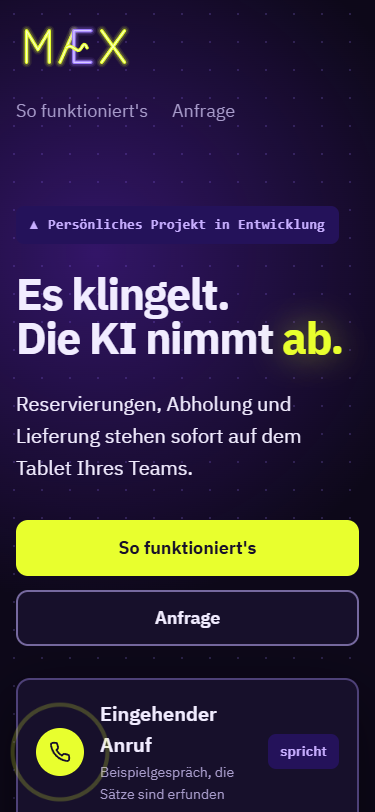
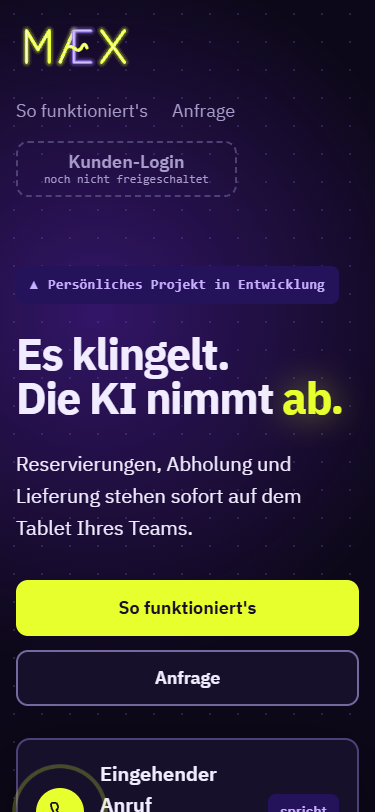
feat(site): greyed sign-in with its reason in sight, only needed static files, Apache host docs (#892)

diff --git a/api/gui/static/site.css b/api/gui/static/site.css
@@ -69,7 +69,9 @@ a:hover{color:var(--text)}
 .btn-ghost{background:var(--surface);border-color:var(--line-strong);color:var(--text)}
 .btn-ghost:hover{background:var(--surface-2)}
 .btn-try{background:var(--warn-bg);border-color:var(--warn-line);color:var(--text)}
-.btn-off{background:transparent;border:2px dashed var(--line);color:var(--muted);cursor:default}
+/* A disabled entry says why, in sight and not only to a screen reader. */
+.btn-off{flex-direction:column;line-height:1.2;background:transparent;border:2px dashed var(--line);color:var(--muted);cursor:not-allowed}
+.btn-off-why{font-family:var(--font-mono);font-size:.75rem;font-weight:400}
 .btn-off:hover{transform:none;color:var(--muted)}
 .btn-big{min-block-size:64px;padding-inline:36px;font-size:1.25rem}
 .btn-wide{inline-size:100%;margin-top:28px}

diff --git a/api/site/templates/base.html b/api/site/templates/base.html
@@ -55,7 +55,7 @@
     {% else %}
     {# No sign-in target, or the private preview (Maxi, 20.11.2026: the entry
        stays visible, greyed): shown as what it is, no link, no control. #}
-    <span class="btn btn-off" aria-disabled="true">Kunden-Login<span class="sr"> (noch nicht freigeschaltet)</span></span>
+    <span class="btn btn-off" aria-disabled="true">Kunden-Login<span class="btn-off-why"> noch nicht freigeschaltet</span></span>
     {% endif %}
   </nav>
 </header>

diff --git a/api/tests/test_site_export.py b/api/tests/test_site_export.py
@@ -21,6 +21,8 @@ FILES = (
     "anfrage/index.html",
     "impressum/index.html",
     "datenschutz/index.html",
+    "404.html",
+    ".htaccess",
     "robots.txt",
     "static/site.css",
     "static/site.js",
@@ -79,12 +81,13 @@ def test_every_exported_page_of_the_preview_says_noindex_nofollow(tmp_path):
     out = tmp_path / "site"
     site_export.export(out, settings_of())
 
-    assert len(pages(out)) == 4
+    assert len(pages(out)) == 5  # four pages and the 404 page
     for page in pages(out):
         html = page.read_text(encoding="utf-8")
         assert html.count('name="robots"') == 1, page
         assert '<meta name="robots" content="noindex, nofollow">' in html, page
-        assert "Kunden-Login" not in html, page
+        assert 'class="btn btn-off" aria-disabled="true"' in html, page
+        assert ">Kunden-Login</a>" not in html, page
         assert "Content-Security-Policy" in html, page
 
 
@@ -201,7 +204,8 @@ def test_a_built_tablet_demo_joins_the_export_with_noindex(tmp_path, monkeypatch
     (demo / "index.html").write_text(
         '<!DOCTYPE html><html><head><meta charset="utf-8"></head>'
         '<body><a href="/tablet-demo/kennzahlen/">K</a>'
-        '<link rel="stylesheet" href="/static/tablet-demo.css"></body></html>',
+        '<link rel="stylesheet" href="/static/tablet-demo.css">'
+        '<script src="/static/app.js"></script></body></html>',
         encoding="utf-8",
     )
     (demo / "kennzahlen" / "index.html").write_text(
@@ -220,3 +224,88 @@ def test_a_built_tablet_demo_joins_the_export_with_noindex(tmp_path, monkeypatch
     assert site_export.broken_links(out) == []
     # The source folder of the demo is left as it was.
     assert "robots" not in (demo / "index.html").read_text(encoding="utf-8")
+    # The demo's own files of /static/ come along, the board's script too.
+    assert (out / "static" / "tablet-demo.css").is_file()
+    assert (out / "static" / "app.js").is_file()
+
+
+def test_the_export_carries_only_the_static_files_its_pages_need(tmp_path):
+    out = tmp_path / "site"
+    site_export.export(out, settings_of())
+
+    shipped = {
+        p.relative_to(out / "static").as_posix()
+        for p in (out / "static").rglob("*")
+        if p.is_file()
+    }
+    fonts = {
+        f"fonts/ibm-plex-sans-latin-{w}-normal.woff2" for w in (400, 500, 600, 700)
+    }
+    assert shipped == {
+        "site.css",
+        "site.js",
+        "site-logic.js",
+        "anfrage.js",
+        "icon-192.png",
+        "fonts/IBM-Plex-Sans-OFL.txt",
+        *fonts,
+    }
+    # The tablet application's files stay out while no demo is built.
+    for name in (
+        "app.js",
+        "app.css",
+        "htmx.min.js",
+        "passkey.js",
+        "dev-console.js",
+        "manifest.json",
+    ):
+        assert name not in shipped
+
+
+def test_the_404_page_is_a_page_of_the_site(tmp_path):
+    out = tmp_path / "site"
+    site_export.export(out, settings_of())
+
+    html = (out / "404.html").read_text(encoding="utf-8")
+    assert "Diese Seite gibt es nicht." in html
+    assert '<meta name="robots" content="noindex, nofollow">' in html
+    assert 'href="/"' in html
+
+
+@pytest.mark.parametrize("preview_on", [True, False])
+def test_the_htaccess_sends_the_headers_and_names_the_404_page(tmp_path, preview_on):
+    out = tmp_path / "site"
+    site_export.export(out, settings_of(site_preview=preview_on))
+
+    text = (out / ".htaccess").read_text(encoding="utf-8")
+    assert "ErrorDocument 404 /404.html" in text
+    assert f'Header always set Content-Security-Policy "{site_app.CSP}"' in text
+    assert "frame-ancestors 'none'" in text and "unsafe-inline" not in text
+    assert 'Header always set X-Content-Type-Options "nosniff"' in text
+    assert 'Header always set Referrer-Policy "no-referrer"' in text
+    assert ('X-Robots-Tag "noindex, nofollow"' in text) is preview_on
+    # Directives a shared host may forbid in .htaccess (a 500 for every page).
+    directives = [line.split()[0] for line in text.splitlines() if line.strip()]
+    assert "Options" not in directives and "DirectoryIndex" not in directives
+    assert "<IfModule mod_headers.c>" in text
+
+
+def test_the_zip_holds_the_folder_without_the_marker(tmp_path, monkeypatch):
+    import zipfile
+
+    out = tmp_path / "site"
+    monkeypatch.setattr(site_export, "SiteSettings", lambda: settings_of())
+
+    assert site_export.main(["--out", str(out), "--zip"]) == 0
+
+    with zipfile.ZipFile(tmp_path / "site.zip") as packed:
+        names = set(packed.namelist())
+    assert {
+        "index.html",
+        "anfrage/index.html",
+        ".htaccess",
+        "404.html",
+        "robots.txt",
+    } <= names
+    assert site_export.MARK not in names
+    assert "static/site.css" in names

diff --git a/scripts/site_export.py b/scripts/site_export.py
@@ -1,12 +1,14 @@
 """Write the public site as plain files for any static host (#892, docs/13 §9).
 
-    python -m scripts.site_export [--out site-export]
+    python -m scripts.site_export [--out site-export] [--zip]
 
 Asks the site app (`api/site/app.py`) for every page with the configuration of
 this environment (`SITE_*`, `.env`) and writes the answers into one folder:
 `index.html`, `anfrage/index.html`, `impressum/index.html`,
-`datenschutz/index.html`, `robots.txt`, the files of `/static/`, and the tablet
-demo under `tablet-demo/` when `scripts/demo/tablet_demo_build.py` has built it.
+`datenschutz/index.html`, `404.html`, `robots.txt`, an Apache `.htaccess` with
+the headers the app sends, the files of `/static/` the pages need, and the
+tablet demo under `tablet-demo/` when `scripts/demo/tablet_demo_build.py` has
+built it. `--zip` also writes `<folder>.zip` for the upload.
 Links stay root-absolute (`/static/site.css`, `/anfrage/`), so the folder is
 served from the root of a host name. Every link of the written pages is checked
 against the folder; a broken one stops the export.
@@ -47,6 +49,13 @@ LEGAL = ("impressum", "datenschutz")
 PAGE_LINK = re.compile(r'((?:href|action)=")/(anfrage|impressum|datenschutz)(?=[?#"])')
 LINK = re.compile(r'(?:href|src|action)="(/[^"]*)"')
 CSS_URL = re.compile(r"url\(\s*['\"]?(/[^)'\"]+)")
+# A file of /static/ named by a page, a stylesheet, a script or a manifest, and
+# the relative imports of a compiled script (`from "./site-logic.js"`).
+STATIC_REF = re.compile(r"/static/([\w.-]+(?:/[\w.-]+)*)")
+JS_IMPORT = re.compile(r"""(?:\bfrom|\bimport)\s*\(?\s*["'](\.{1,2}/[^"']+)["']""")
+SCANNED = (".html", ".css", ".js", ".json")
+# The fonts are under the SIL OFL, which travels with every copy of them.
+FONT_LICENCE = "fonts/IBM-Plex-Sans-OFL.txt"
 ROBOTS_META = re.compile(r'<meta\s+name="robots"', re.I)
 NOINDEX = '<meta name="robots" content="noindex, nofollow">'
 
@@ -107,6 +116,34 @@ def broken_links(out: Path) -> list[str]:
     return broken
 
 
+def copy_static(out: Path) -> None:
+    """Copies the files of /static/ the written pages need, and what those files
+    need in turn, nothing else: `api/gui/static/` also holds the tablet
+    application's files, which only the tablet demo loads."""
+    todo = [f for f in out.rglob("*") if f.suffix in (".html", ".json")]
+    copied: set[str] = set()
+    while todo:
+        file = todo.pop()
+        text = file.read_text(encoding="utf-8")
+        names = STATIC_REF.findall(text)
+        if file.suffix == ".js":
+            here = file.parent.relative_to(out / "static")
+            names += [(here / ref).as_posix() for ref in JS_IMPORT.findall(text)]
+        if any(name.startswith("fonts/") for name in names):
+            names.append(FONT_LICENCE)
+        for name in names:
+            name = Path(name).as_posix().removeprefix("./")
+            source = site_app.STATIC / name
+            if name in copied or ".." in name or not source.is_file():
+                continue
+            copied.add(name)
+            target_file = out / "static" / name
+            target_file.parent.mkdir(parents=True, exist_ok=True)
+            shutil.copyfile(source, target_file)
+            if target_file.suffix in SCANNED:
+                todo.append(target_file)
+
+
 def mark_noindex(folder: Path) -> None:
     """Gives every page of a copied folder the preview's robots tag where it has
     none, so no page of the export can be indexed."""
@@ -163,11 +200,11 @@ def export(out: Path, settings: SiteSettings) -> list[str]:
         PAGE_LINK.sub(r"\1/\2/", missing_page.text), encoding="utf-8"
     )
     (out / ".htaccess").write_text(htaccess(settings), encoding="utf-8")
-    shutil.copytree(site_app.STATIC, out / "static")
     if site_app.TABLET_DEMO.is_dir():
         shutil.copytree(site_app.TABLET_DEMO, out / "tablet-demo")
         if settings.site_preview:
             mark_noindex(out / "tablet-demo")
+    copy_static(out)
     (out / MARK).write_text("written by scripts/site_export.py\n", encoding="utf-8")
     broken = broken_links(out)
     if broken:

diff --git a/api/tests/test_site.py b/api/tests/test_site.py
@@ -363,17 +363,24 @@ def test_the_preview_is_on_by_default():
 
 
 @pytest.mark.parametrize("path", PAGES)
-def test_in_the_preview_no_page_offers_a_sign_in_and_none_may_be_indexed(path):
-    # A sign-in target configured or not: the preview shows none, not even a label.
+def test_in_the_preview_the_sign_in_is_a_greyed_label_and_no_page_may_be_indexed(path):
+    # A sign-in target configured or not: the preview shows the entry greyed,
+    # with its reason in sight, and links nowhere (Maxi, 20.11.2026).
     response = preview(site_login_url="https://login.example.com/gui/anmelden").get(
         path
     )
 
     assert '<meta name="robots" content="noindex, nofollow">' in response.text
     assert response.headers["x-robots-tag"] == "noindex, nofollow"
-    assert "Kunden-Login" not in response.text
+    label = re.search(
+        r'<span class="btn btn-off" aria-disabled="true">(.*?)</span></span>',
+        response.text,
+    )
+    assert label
+    assert "Kunden-Login" in label.group(1)
+    assert '<span class="btn-off-why"> noch nicht freigeschaltet' in label.group(1)
     assert "login.example.com" not in response.text
-    assert "btn-off" not in response.text
+    assert ">Kunden-Login</a>" not in response.text
 
 
 def test_in_the_preview_the_form_cannot_be_sent_whatever_is_configured():
@@ -392,7 +399,7 @@ def test_in_the_preview_the_form_cannot_be_sent_whatever_is_configured():
     assert "Formular ansehen" in landing
     assert "Zur Anfrage" not in landing
     assert "Die Anfrage verpflichtet zu nichts" not in landing
-    assert "Kunden-Login" not in landing
+    assert "Sie sind schon Kunde?" not in landing
 
 
 def test_the_preview_badge_names_a_personal_project_and_off_the_test_phase():
@@ -451,3 +458,11 @@ def test_the_legal_pages_take_their_text_from_the_folder_outside(tmp_path):
     assert "nicht veröffentlichungsfähig" not in notice
     # The missing file leaves its page the placeholder.
     assert "nicht veröffentlichungsfähig" in privacy
+
+
+def test_an_unknown_address_gets_the_404_page_of_the_site():
+    response = preview().get("/gibt-es-nicht")
+
+    assert response.status_code == 404
+    assert "Diese Seite gibt es nicht." in response.text
+    assert response.headers["content-security-policy"] == site_app.CSP

diff --git a/api/site/config.py b/api/site/config.py
@@ -36,10 +36,10 @@ class SiteSettings(BaseSettings):
     # address and the privacy text exist (#892). Empty: the form is shown, but
     # cannot be sent.
     site_inquiry_action: str = ""
-    # Private preview (#892), on until Maxi turns it off: no customer sign-in at
-    # all, a form that cannot be sent whatever SITE_INQUIRY_ACTION says,
-    # `noindex, nofollow` on every page, and the badge names a personal project
-    # in development.
+    # Private preview (#892), on until Maxi turns it off: the customer sign-in
+    # greyed whatever SITE_LOGIN_URL says, a form that cannot be sent whatever
+    # SITE_INQUIRY_ACTION says, `noindex, nofollow` on every page, and the badge
+    # names a personal project in development.
     site_preview: bool = True
     # A folder outside the repository with `impressum.html` and
     # `datenschutz.html`: the legal notice and the privacy text as HTML

diff --git a/docs/13_DEPLOYMENT.md b/docs/13_DEPLOYMENT.md
@@ -522,8 +522,10 @@ The landing page and the inquiry page (`api/site/`, docs/06 §10) are a third sm
 - **Hosts.** The apex `<domain>` and `www.<domain>` lead to this app, `ops.<domain>` to the dashboard and `<customer>.<domain>` to a customer's stack (docs/23 §3). Requirement for #840: the apex answers `/`, `/anfrage`, `/impressum`, `/datenschutz` and `/static/*` and nothing else of the application; `www` redirects to the apex with 301; HTTPS only, with the same `Strict-Transport-Security` as the other sites; a site block like `deploy/caddy/ops.caddy` with `request_body` limited to 256 KB and no proxy secret (the pages are public). The app sets its own CSP, `nosniff`, `no-referrer` and `no-cache` on every answer, so Caddy adds only HSTS. The app serves `/static` from `api/gui/static/`, which also holds files of the operations view; they are public files and none holds data.
 - **Environment** (all optional, `.env.example`): `SITE_LOGIN_URL` where "Kunden-Login" leads (`https://<customer>.<domain>/gui/anmelden`, or a path; `http://` only in dev and test), `SITE_CONTACT_EMAIL` for a mail link, `SITE_INQUIRY_ACTION` the path the form posts to, set only once that route exists. A value that is not what it says stops the start. Unset values switch their part of the page off.
 - **Tablet demo** (docs/06 §11): before publishing, `python -m scripts.demo.tablet_demo_build` renders `api/site/tablet-demo/` from invented data; it needs `DATABASE_URL` naming a PostgreSQL server where it may create and drop a scratch database (the local stack's is enough), and the site serves the folder at `/tablet-demo` when it exists at the site's start. The apex then also answers `/tablet-demo/*`. The output is not committed, so the image or the host gets it from that build.
-- **Private preview** (`SITE_PREVIEW`, on until Maxi sets it to `false`): no customer sign-in at all, the form shown with every field and the button disabled and one sentence that nothing can be sent (whatever `SITE_INQUIRY_ACTION` says), `<meta name="robots" content="noindex, nofollow">` on every page and `X-Robots-Tag` from the app, the badge "Persönliches Projekt in Entwicklung". `robots.txt` allows crawling on purpose: a crawler that robots.txt shuts out never reads a page, so it never sees the noindex and may still list the address from links elsewhere. No sitemap.
-- **Static export.** `python -m scripts.site_export [--out <folder>]` (from the API's image, or any Python with the API's dependencies) asks the app for every page with this environment's `SITE_*` and writes `index.html`, `anfrage/index.html`, `impressum/index.html`, `datenschutz/index.html`, `robots.txt`, all of `/static/` and, when built, `tablet-demo/` (copied as B1 wrote it, each page given the preview's robots tag) into one folder, `site-export/` by default (gitignored). Links are root-absolute with clean paths (`/anfrage/`), so the folder is served from the root of a host name by any file server; every link is checked against the folder and a broken one stops the export. It only empties a folder an earlier export wrote. Nothing is uploaded: publishing the folder is Maxi's step on the host Maxi chooses.
+- **Private preview** (`SITE_PREVIEW`, on until Maxi sets it to `false`): the customer sign-in greyed with its reason in sight (whatever `SITE_LOGIN_URL` says), the form shown with every field and the button disabled and one sentence that nothing can be sent (whatever `SITE_INQUIRY_ACTION` says), `<meta name="robots" content="noindex, nofollow">` on every page and `X-Robots-Tag` from the app, the badge "Persönliches Projekt in Entwicklung". `robots.txt` allows crawling on purpose: a crawler that robots.txt shuts out never reads a page, so it never sees the noindex and may still list the address from links elsewhere. No sitemap.
+- **Static export.** `python -m scripts.site_export [--out <folder>] [--zip]` (from the API's image, or any Python with the API's dependencies) asks the app for every page with this environment's `SITE_*` and writes `index.html`, `anfrage/index.html`, `impressum/index.html`, `datenschutz/index.html`, `404.html`, `robots.txt`, `.htaccess`, the files of `/static/` the pages name (and the files those name: fonts with their licence, compiled imports; the tablet application's own files only when the demo needs them) and, when built, `tablet-demo/` (copied as B1 wrote it, each page given the preview's robots tag) into one folder, `site-export/` by default (gitignored); `--zip` writes `site-export.zip` beside it, the folder's content without the export's marker file. Links are root-absolute with clean paths (`/anfrage/`), so the folder is served from the root of a host name; every link is checked against the folder and a broken one stops the export. It only empties a folder an earlier export wrote. Nothing is uploaded by the script.
+- **Host: netcup webhosting** (Maxi, 20.11.2026): Apache with Plesk, plain files only, upload by SSH or FTP, no CDN in front. The content of the zip goes into the domain's document root. The generated `.htaccess` holds only directives of the `FileInfo` class a shared host allows: `ErrorDocument 404 /404.html` and, inside `<IfModule mod_headers.c>`, the headers the app sends (`Content-Security-Policy` with `frame-ancestors 'none'`, `nosniff`, `no-referrer`, `no-cache`, and `X-Robots-Tag: noindex, nofollow` in the preview). `Options` and `DirectoryIndex` are left out, since a host that forbids them answers every page with 500; Apache's `DirectorySlash` already sends `/anfrage` to `/anfrage/`. Checked locally on `httpd:2.4` with `AllowOverride FileInfo` and on the package's test address.
+- **HTTPS on that host is a Plesk setting, not part of the export.** Per domain: SSL/TLS Certificates, a Let's Encrypt certificate for the domain and `www`; then Hosting Settings, "Permanent SEO-safe 301 redirect from HTTP to HTTPS"; HSTS in the certificate screen only once HTTPS answers for the domain and `www`. The redirect is not in `.htaccess`: Plesk has the setting per domain, and the same export is also served on the package's test address, which may have no certificate, where a forced redirect would lock the preview out.
 - **Legal texts.** `SITE_LEGAL_DIR` names a folder outside the repository with `impressum.html` and `datenschutz.html`, HTML fragments Maxi writes (form: `deploy/site/legal.example/`, invented details only). The real texts hold private details and never enter the repository, a PR or an issue; the export refuses a folder inside the repository. Without them it writes the placeholders and prints `WARNING ... NOT publishable` for each.
-- **Content-Security-Policy on a static host.** Every page carries the policy as `<meta http-equiv>` (without `frame-ancestors`, which a browser ignores in a meta tag); the app also sends it as a header with `frame-ancestors 'none'`. A host that can set headers should send `Content-Security-Policy` with the same value plus `frame-ancestors 'none'`, `X-Content-Type-Options: nosniff`, `Referrer-Policy: no-referrer` and, in the preview, `X-Robots-Tag: noindex, nofollow`. A CDN that injects its own inline script (bot checks, analytics, e-mail obfuscation, script loaders) is blocked by the policy and shows a console error: switch that feature off for this site at the host. The policy never gets `'unsafe-inline'`; a fixed script of the host that must run can be allowed by its `sha256` hash (the console error names it) in `CSP_META` of `api/site/app.py`, by PR.
+- **Content-Security-Policy on a static host.** Every page carries the policy as `<meta http-equiv>` (without `frame-ancestors`, which a browser ignores in a meta tag), so it holds on a host that sets no header; the app and the `.htaccess` also send it as a header with `frame-ancestors 'none'`. Any other static host should send the same headers. A host or CDN that injects its own inline script (bot checks, analytics, e-mail obfuscation, script loaders; seen on the first hosted preview, gone with the move to netcup) is blocked by the policy and shows a console error: switch that feature off for this site. The policy never gets `'unsafe-inline'`; a fixed script of the host that must run can be allowed by its `sha256` hash (the console error names it) in `CSP_META` of `api/site/app.py`, by PR.
 - **Before the site is public:** the legal notice and the privacy text replace the placeholders (Maxi supplies them, nothing is invented); `curl -I https://<domain>/` shows the CSP; the sign-in link reaches the customer's sign-in over HTTPS; `https://<domain>/gui/` and `/v1/` answer 404; the audit of `docs/09` §5 covers the form once it can send.

diff --git a/docs/06_GUI.md b/docs/06_GUI.md
@@ -267,11 +267,11 @@ The landing page `/` and the inquiry page `/anfrage` are an app of their own (`a
 
 - **Landing page.** Navigation with the MÆX sign (flickers on once) and "Kunden-Login"; hero with the test phase badge, the headline revealed word by word, one sentence, the actions "So funktioniert's" and "Anfrage"; the call card types an example call (Reservierung, Abholung, Lieferung; invented sentences, marked as examples, no price) with the status chip "hört zu", "spricht", "bestätigt" once the guest's yes is complete; three sound waves rest as one flat line and swing while someone speaks; "So funktioniert's" with three steps and the optional fourth (the print bridge slip), each with a small looping demo; the three principle cards; a closing block to `/anfrage`; footer with Impressum and Datenschutz.
 - **Inquiry page.** Kind of business, business name, contact name, e-mail, phone and free text (the last two optional), visible labels, each error beside its field (`api/gui/ts/anfrage.ts`, checks in `site-logic.ts`). The form is built but not offered as working: without `SITE_INQUIRY_ACTION` the fields are disabled and a note says so. Sending needs a route, a mail service, a target address, spam protection and the privacy text, all Maxi's and open (#892).
-- **Nothing is shown as working that is not.** No `SITE_LOGIN_URL`: "Kunden-Login" is a label with "noch nicht freigeschaltet". No `SITE_CONTACT_EMAIL`: no mail link. No demo (`api/site/content.py` `DEMO_PATH` is `None`): no "Jetzt ausprobieren", no demo section; the place is marked in `landing.html`. Impressum and Datenschutz are placeholders marked "nicht veröffentlichungsfähig" and `noindex`.
+- **Nothing is shown as working that is not.** No `SITE_LOGIN_URL` (or the preview): "Kunden-Login" is a greyed label with "noch nicht freigeschaltet" under it. No `SITE_CONTACT_EMAIL`: no mail link. No demo (`api/site/content.py` `DEMO_PATH` is `None`): no "Jetzt ausprobieren", no demo section; the place is marked in `landing.html`. Impressum and Datenschutz are placeholders marked "nicht veröffentlichungsfähig" and `noindex`.
 - **Smooth scrolling is a rule.** The call card changes two text nodes per sentence and a class on the waves when the speaker changes, nothing else; it types only while it is on screen and the tab is in front. Nothing follows the pointer (the preview's glow was dropped), nothing redraws the page on a timer, no filter and no shadow animates, and every moving thing is `transform` or `opacity`. The card reserves the height of its longest call by laying every sentence out with the untyped part invisible (`.rest`). Scroll reveals are a short fade with a shift of 24 px on a CSS scroll timeline (`animation-timeline: view()`) inside `@supports`; a browser without it shows everything. Looping demos and the waves pause while off screen (`.off-screen`). Under `prefers-reduced-motion` every animation and transition is off, the call card shows the whole call at once and the waves stand as a quiet curve.
 - **No script or style of its own in a page.** The CSP of the app is `default-src 'self'` with no `unsafe-inline`; the sign is layered strokes instead of a blur; IBM Plex Sans (400, 500, 600, 700, Latin, SIL OFL, `api/gui/static/fonts/`) is served from the site, nothing from an outside host. A test holds all of it.
 - **Sizes.** One column of at most 84 rem with gutters of 16 to 56 px; checked in a browser at 375, 768, 1280, 1440 and 1920 px: no horizontal scrolling. Screenshots: `docs/design/2026-11-landing-page/`.
-- **Private preview** (#892, 20.11.2026, `SITE_PREVIEW`, on by default): the site is Maxi's personal project for friends for now. No customer sign-in at all (not even a label); the inquiry form stays visible with every field and the button disabled and one sentence that it is only there to look at, because a visitor should see what the form will ask and hiding it would leave the "Anfrage" actions leading nowhere; the closing block of the landing page says the same and its button reads "Formular ansehen"; the mail line on `/anfrage` goes; the badge reads "Persönliches Projekt in Entwicklung"; every page carries `noindex, nofollow` (docs/13 §9). From the UI-UX Pro Max skill: disabled controls look disabled (reduced opacity, `not-allowed` cursor), content fits the viewport with no sideways scroll, long tokens wrap (`overflow-wrap:anywhere` in the legal text). Checked from the static export served by a plain file server at 360, 375, 800, 1280 and 1920 px: no sideways scroll, the logo whole, no console message. Screenshots: `docs/design/2026-11-site-preview/`.
+- **Private preview** (#892, 20.11.2026, `SITE_PREVIEW`, on by default): the site is Maxi's personal project for friends for now. "Kunden-Login" stays visible as the greyed label with the reason "noch nicht freigeschaltet" in sight under it, never a link (Maxi, 20.11.2026, which replaced an earlier "no sign-in at all"); the inquiry form stays visible with every field and the button disabled and one sentence that it is only there to look at, because a visitor should see what the form will ask and hiding it would leave the "Anfrage" actions leading nowhere; the closing block of the landing page says the same and its button reads "Formular ansehen"; the mail line on `/anfrage` goes; the badge reads "Persönliches Projekt in Entwicklung"; every page carries `noindex, nofollow` (docs/13 §9). From the UI-UX Pro Max skill: disabled controls look disabled (reduced opacity or dashed and muted, `not-allowed` cursor) and say why in sight rather than only to a screen reader (no `title`, which a touch screen never shows), content fits the viewport with no sideways scroll, long tokens wrap (`overflow-wrap:anywhere` in the legal text). Checked from the static export served by a plain file server at 360, 375, 800, 1280 and 1920 px: no sideways scroll, the logo whole, no console message. Screenshots: `docs/design/2026-11-site-preview/`.
 - **What waits.** The tablet demo (`/tablet-demo`, §11) is built in four tasks; its hero action, its section on the landing page and the one neon button of the page (`.neon` in `site.css`) switch on with `DEMO_PATH` once it can be clicked through (after B2).
 
 ## 11. The tablet demo (#892, way B, Maxi 20.11.2026)

diff --git a/docs/01_STATUS.md b/docs/01_STATUS.md
@@ -46,7 +46,7 @@ Older summary paragraphs: `docs/HISTORY.md` section "Summary (archive)". Current
 
 Finished items: `docs/HISTORY.md` sections "What's Next and Open Decisions (archive, finished rows, 10.11.2026)" and "What's Next and Open Decisions (archive, process rows, 19.11.2026)".
 
-**#892, the public site (built 20.11.2026, PR open): the landing page and `/anfrage` exist as `api/site/`, nothing is deployed.** Open, each Maxi's: the final public copy, the legal notice and privacy text (placeholders marked not publishable), the mail service, target address and privacy text of the inquiry form (it stays disabled until `SITE_INQUIRY_ACTION` names a route), the sign-in target before the first stack is online (`SITE_LOGIN_URL`), hosting of the site (#840). The tablet demo `/tablet-demo` is built as way B in four tasks (docs/06 §11): B1 (the build from the real view with invented data, the route manifest and its drift test) has its PR open; B2 (fake backend core and board), B3 (sheets, pages, locked PIN parts, Kennzahlen label) and B4 (floor plan) follow. Until B2 the landing page shows no "Jetzt ausprobieren" (`DEMO_PATH` stays `None`). Assumption (B1): the invented dishes carry invented prices, as the real board shows totals. Scrolling was measured in headless Chrome only, not on a phone. Private preview (20.11.2026, PR open): `SITE_PREVIEW` on by default (no sign-in, form not sendable, `noindex, nofollow`, robots.txt allows crawling), `python -m scripts.site_export` writes the site as plain files into `site-export/`, legal texts from `SITE_LEGAL_DIR` outside the repo; publishing the folder and the host stay Maxi's.
+**#892, the public site (built 20.11.2026, PR open): the landing page and `/anfrage` exist as `api/site/`, nothing is deployed.** Open, each Maxi's: the final public copy, the legal notice and privacy text (placeholders marked not publishable), the mail service, target address and privacy text of the inquiry form (it stays disabled until `SITE_INQUIRY_ACTION` names a route), the sign-in target before the first stack is online (`SITE_LOGIN_URL`), hosting of the site (#840). The tablet demo `/tablet-demo` is built as way B in four tasks (docs/06 §11): B1 (the build from the real view with invented data, the route manifest and its drift test) has its PR open; B2 (fake backend core and board), B3 (sheets, pages, locked PIN parts, Kennzahlen label) and B4 (floor plan) follow. Until B2 the landing page shows no "Jetzt ausprobieren" (`DEMO_PATH` stays `None`). Assumption (B1): the invented dishes carry invented prices, as the real board shows totals. Scrolling was measured in headless Chrome only, not on a phone. Private preview (20.11.2026, PR open): `SITE_PREVIEW` on by default (sign-in greyed with its reason, form not sendable, `noindex, nofollow`, robots.txt allows crawling), `python -m scripts.site_export --zip` writes the site as plain files with an Apache `.htaccess` (headers, 404 page) into `site-export/` and a zip beside it, legal texts from `SITE_LEGAL_DIR` outside the repo. Host decided by Maxi on 20.11.2026: a netcup webhosting package (Apache with Plesk, plain files); the export of `6b8ae339` was uploaded to its test address by the coordinating session and checked there. The domain, the certificate and the HTTPS redirect in Plesk stay Maxi's.
 
 **Cloud session of 15.11.2026 taken over, Maxi's twelve decisions of 15.11.2026.** Twelve branches came over from the carrier branch `ccr-8ada70c0-3yo967` (never merged). Each one ships as its own PR. Decisions: (1) menu parser redesign: build the conservation gate in the consult's order (corpus PR, then the gate, then cleanup), with a Fable design session (use 2) running alongside; (2) #751, another person's allergy: keep #788 and measure first (#787), no coverage check yet; (3) #757, the stranded guest list: list it on the waiting cards and keep it until the date has passed; (4) #757 tables, which goes further than the question asked: a reserved table stays blocked for its whole service period (lunch or evening, split at the opening-hours break, since the guests' leaving time is unknown). The team frees it with one tap on the table or the reservation, and it frees itself when the period ends. This changes availability and gets its own issue; (5) the P2/P3 drafts of the #764 batch review are filed as issues as written, then the ledger is ticked; (6) "Ich möchte die Pizza reklamieren" gets the remedy offer of the complaint rules first and goes to the team only when the guest is still not satisfied (changes `fix/764-dialog-batch`); (7) phone normalisation keeps the sourced trunk-zero list, which already covers Germany and every neighbouring country, with no new dependency; (8) the self-test reservation shows as a marked test card on the real tablet (`is_test` flag, migration, never reaches outside; changes `feat/574-selftest`); (9) offboarding: off-site backups expire with their rolling 30 days, and a stack with a second tenant is removed by hand; (10) #637: AudioSeal and the real SIP leg are measured on the workbench before the first real call; (11) STATUS takes the firm row set of the cloud session's row proposals and archives the 24 old header lines; (12) #530: one eval "out of zone, pickup on but closed by its hours" is added, then #530 closes.
 
@@ -174,7 +174,7 @@ Own, semantic version `MAJOR.MINOR.PATCH`, independent of the `CLAUDE.md` bundle
 
 ## Changelog
 
-- **v2.67.8 · 20.11.2026:** #892: private preview of the public site (no sign-in, form not sendable, noindex nofollow) and a static export with legal texts from outside the repo
+- **v2.67.8 · 20.11.2026:** #892: private preview of the public site (sign-in greyed, form not sendable, noindex nofollow) and a static export with legal texts from outside the repo
 - **v2.67.7 · 20.11.2026:** #892 B1: tablet demo built from the real view with invented data, route manifest and drift test
 - **v2.67.6 · 20.11.2026:** #892: public landing page and inquiry page built as api/site (form and sign-in not offered as working until configured, demo place marked)
 - **v2.67.5 · 19.11.2026:** #888 B1: signing out every device of a restaurant (a new password by setup link, the operator's or the CLI's all devices) also forgets its device cookies

diff --git a/docs/11_MODULE.md b/docs/11_MODULE.md
@@ -219,12 +219,12 @@ Ein Modul je Endpunkt, jeweils fünf bis fünfzehn Zeilen: Request parsen, `doma
 
 ### `site/` – the public site, an app of its own (#892, docs/06 §10, docs/13 §9)
 Run from the API's image as `uvicorn api.site.app:app --port 8003`. No database, no session, no secret; it imports neither `api.config` nor `api.db` nor anything of the domain. Its stylesheet, scripts and fonts sit in `gui/static/` beside those of the operations view (`site.css`, compiled `site.js`, `anfrage.js`, `site-logic.js`, `fonts/`).
-- `config.py` — `SITE_LOGIN_URL`, `SITE_CONTACT_EMAIL`, `SITE_INQUIRY_ACTION`: each optional and checked at start; a part of the page that lacks its value is switched off, not shown dead. `SITE_PREVIEW` (on by default) hides the sign-in, closes the form and marks every page `noindex, nofollow`; `SITE_LEGAL_DIR` names the folder outside the repository the legal texts are read from
-- `app.py` — `create_app`: `/`, `/anfrage`, `/impressum`, `/datenschutz`, `/robots.txt`, `/health`, `/static`, and `/tablet-demo` when its folder is built; the CSP and the other headers on every answer, the CSP also as a meta tag in every page. `scripts/site_export.py` writes the same answers as plain files for a static host
+- `config.py` — `SITE_LOGIN_URL`, `SITE_CONTACT_EMAIL`, `SITE_INQUIRY_ACTION`: each optional and checked at start; a part of the page that lacks its value is switched off, not shown dead. `SITE_PREVIEW` (on by default) greys the sign-in, closes the form and marks every page `noindex, nofollow`; `SITE_LEGAL_DIR` names the folder outside the repository the legal texts are read from
+- `app.py` — `create_app`: `/`, `/anfrage`, `/impressum`, `/datenschutz`, `/robots.txt`, `/health`, `/static`, and `/tablet-demo` when its folder is built; a page of the site for every unknown address (404); the CSP and the other headers on every answer, the CSP also as a meta tag in every page. `scripts/site_export.py` writes the same answers as plain files for a static host
 - `tablet-demo/` — the tablet demo, generated by `scripts/demo/tablet_demo_build.py` and not committed (docs/06 §11); the seed, the build and the route manifest live in `scripts/demo/` (`tablet_demo_data.py`, `tablet_demo_build.py`, `tablet_demo_routes.py` with `tablet_demo_routes.json`), its stylesheet is `gui/static/tablet-demo.css`
 - `content.py` — the three example calls, the kinds of business, `DEMO_PATH` (the tablet demo, `None` until it exists)
 - `waves.py` — path data of the three sound waves, drawn on the server
-- `templates/` — `base.html`, `landing.html`, `anfrage.html`, `legal.html`; no script or style of its own
+- `templates/` — `base.html`, `landing.html`, `anfrage.html`, `legal.html`, `notfound.html`; no script or style of its own
 - Browser code: `gui/ts/site.ts` (call card, pause of what is off screen), `anfrage.ts` (form checks), `site-logic.ts` (the logic, run by node in `api/tests/site_logic.mjs`)
 
 ### `dashboard/` – the operator dashboard, an app of its own (#571, docs/23 §5)

diff --git a/README.md b/README.md
@@ -246,7 +246,7 @@ All settings come from `.env`. Template and description of all variables: `.env.
 | `MAX_CALL_SECONDS` | Maximum call duration a new tenant is seeded with. A call is ended by the tenant's own value (`service_config.max_call_seconds`) |
 | `PRIVACY_NOTICE_ADDRESS` | Where the privacy notice is, as a caller should hear it; a new tenant is seeded with it, and the phone greeting names the tenant's own value (`service_config.privacy_notice_address`). Empty: the greeting leaves the sentence out. Set before the first real call |
 | `LLM_BASE_URL`, `LLM_MODEL`, `LLM_API_KEY` | Language model of the conversation core, any server with the chat completions API. Empty by default: the text phone and the evals then run on the scripted stand-in. A local model is for the workbench with invented test data only (`docs/13_DEPLOYMENT.md` §0) |
-| `SITE_PREVIEW`, `SITE_LEGAL_DIR` | The public site (`api/site/`, `docs/13_DEPLOYMENT.md` §9): the private preview is on until `SITE_PREVIEW=false` (no customer sign-in, a form that cannot be sent, `noindex, nofollow` on every page); `SITE_LEGAL_DIR` names a folder outside the repo with the legal notice and the privacy text. `python -m scripts.site_export` writes the site as plain files into `site-export/` |
+| `SITE_PREVIEW`, `SITE_LEGAL_DIR` | The public site (`api/site/`, `docs/13_DEPLOYMENT.md` §9): the private preview is on until `SITE_PREVIEW=false` (the customer sign-in greyed with its reason in sight, a form that cannot be sent, `noindex, nofollow` on every page); `SITE_LEGAL_DIR` names a folder outside the repo with the legal notice and the privacy text. `python -m scripts.site_export --zip` writes the site as plain files with an Apache `.htaccess` into `site-export/` and `site-export.zip` |
 | `BACKUP_PASSPHRASE_FILE` | File with the passphrase for database dumps, outside the repo. Without it `make backup` writes nothing (`docs/13_DEPLOYMENT.md` §4) |
 
 </details>

diff --git a/scripts/README.md b/scripts/README.md
@@ -3,7 +3,7 @@
 | Script | Purpose | Task |
 |---|---|---|
 | `seed.py` | Tenant, hours, capacity, test config | T-1.2 |
-| `site_export.py` | The public site as plain files for any static host: every page, `robots.txt`, `/static/` and a built tablet demo into one folder (`site-export/`, not committed), legal texts from `SITE_LEGAL_DIR` outside the repo (placeholders and a loud warning without them), every link checked; deploys nothing (docs/13 §9) | #892 |
+| `site_export.py` | The public site as plain files for any static host: every page, a 404 page, `robots.txt`, an Apache `.htaccess` (headers, 404), the files of `/static/` the pages name and a built tablet demo into one folder (`site-export/`, not committed; `--zip` adds `site-export.zip`), legal texts from `SITE_LEGAL_DIR` outside the repo (placeholders and a loud warning without them), every link checked; deploys nothing (docs/13 §9) | #892 |
 | `new_stack.py` | A new customer's stack on the server: clone, `.env` with fresh secrets (mode 600), role, migrations, tenant through `api.jobs.provision`, site file in the shared Caddy with the cross-site check; `--dry-run`, `--check-sites`, `--selftest` (the stack's self-test at the end, #574) | #573 |
 | `import_menu.py` | Load CSV per `docs/14_MENU_IMPORT_FORMAT.md`, `--dry-run`, `--deactivate-missing` (refuses an empty file or more than half the active menu unless `--allow-large-deactivation`) | T-4.2, T-4.11 |
 | `seed_zones.py` | Delivery zones from CSV per `docs/14_MENU_IMPORT_FORMAT.md`, `--dry-run`; an overlap or any other error writes nothing | T-6.9 |
